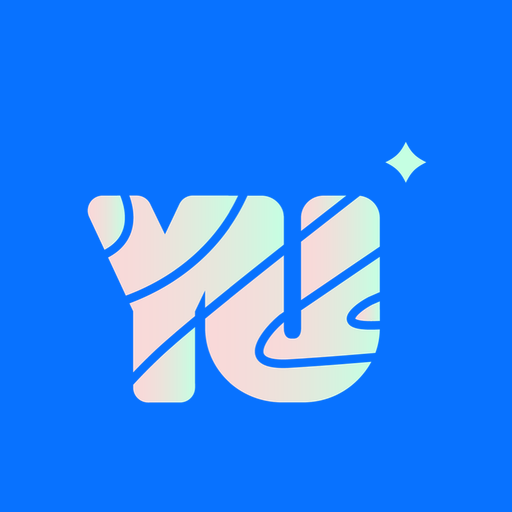
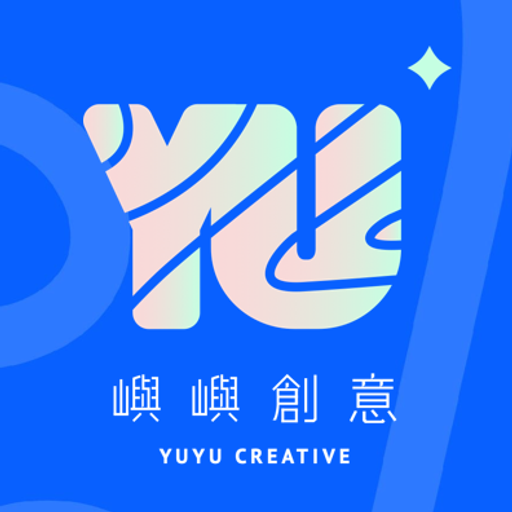
Use square brand image for social preview

diff --git a/app/layout.tsx b/app/layout.tsx
@@ -16,9 +16,15 @@ const siteTitle = "Yuyu Creative | Malaysia Short Video Company for Personal Bra
 const siteDescription =
   "Yuyu Creative Malaysia is a short video and personal branding company focused on real business results. We help clients, professionals, and brands use short video content to build trust, show expertise, and attract the right clients.";
 const socialImage = "/images/yuyu-social-preview.png";
+const siteUrl =
+  process.env.NEXT_PUBLIC_SITE_URL ||
+  process.env.VERCEL_PROJECT_PRODUCTION_URL ||
+  process.env.VERCEL_URL ||
+  "https://yuyu-creative.com.my";
+const metadataBase = new URL(siteUrl.startsWith("http") ? siteUrl : `https://${siteUrl}`);
 
 export const metadata: Metadata = {
-  metadataBase: new URL("https://yuyu-creative.my"),
+  metadataBase,
   applicationName: "Yuyu Creative",
   title: siteTitle,
   description: siteDescription,
@@ -42,6 +48,7 @@ export const metadata: Metadata = {
         url: socialImage,
         width: 1200,
         height: 1200,
+        type: "image/png",
         alt: "Yuyu Creative short video agency Malaysia",
       },
     ],

diff --git a/components/ServiceLanding.tsx b/components/ServiceLanding.tsx
@@ -113,7 +113,7 @@ export default function ServiceLanding({ cfg, locale = "en" }: { cfg: ServicePag
     serviceType: cfg.schemaType,
     description: cfg.metaDescription,
     keywords: cfg.keywords.join(", "),
-    url: `https://yuyu-creative.my/${locale === "zh" ? "zh/" : ""}${cfg.slug}`,
+    url: `https://yuyu-creative.com.my/${locale === "zh" ? "zh/" : ""}${cfg.slug}`,
     areaServed: "Malaysia",
     provider: {
       "@type": "Organization",

diff --git a/app/contact/page.tsx b/app/contact/page.tsx
@@ -12,7 +12,7 @@ const localBusinessJsonLd = {
   "@context": "https://schema.org",
   "@type": "LocalBusiness",
   name: company.legalName,
-  image: "https://yuyu-creative.my/images/case-2.jpg",
+  image: "https://yuyu-creative.com.my/images/yuyu-social-preview.png",
   email: company.email,
   telephone: company.phoneOffice,
   address: {

diff --git a/app/zh/contact/page.tsx b/app/zh/contact/page.tsx
@@ -12,7 +12,7 @@ const localBusinessJsonLd = {
   "@context": "https://schema.org",
   "@type": "LocalBusiness",
   name: company.legalName,
-  image: "https://yuyu-creative.my/images/case-2.jpg",
+  image: "https://yuyu-creative.com.my/images/yuyu-social-preview.png",
   email: company.email,
   telephone: company.phoneOffice,
   address: {
